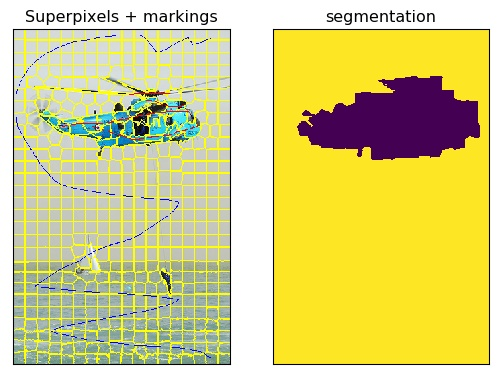
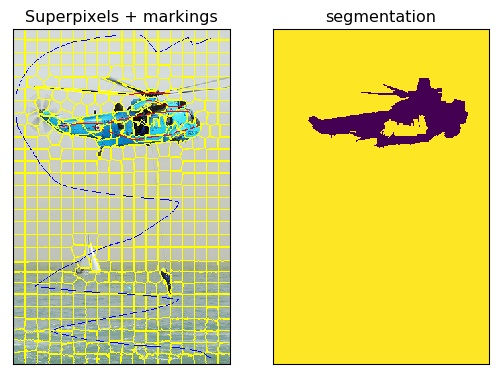
Added edge uncertainties

Changed region(s): [[0.5677, 0.1751, 0.9562, 0.4377]]

diff --git a/algorithms/algorithms.py b/algorithms/algorithms.py
@@ -10,7 +10,9 @@ import matplotlib.pyplot as plt
 from skimage.segmentation import mark_boundaries
 from skimage.segmentation import find_boundaries
 from sklearn.mixture import GaussianMixture
+from sklearn.neighbors import NearestNeighbors
 from scipy.stats import entropy
+from scipy.spatial.distance import euclidean
 
 
 class Algorithms:
@@ -153,8 +155,29 @@ class Algorithms:
             self.imgs_uncertainties_node[img] = [entropy(dist) for dist in likelihoods]
 
     def compute_edge_uncertainties(self):
-        # TODO
-        print('Not yet implemented')
+        # group the foreground and background segments' feature vectors in one list
+        feature_vectors_fg = [self.imgs_segment_feature_vectors[img][fg_segment] for img in self.images for fg_segment
+                              in self.imgs_foreground_segments[img]]
+        feature_vectors_bg = [self.imgs_segment_feature_vectors[img][bg_segment] for img in self.images for bg_segment
+                              in self.imgs_background_segments[img]]
+
+        num_fg_indices = len(feature_vectors_fg)
+
+        feature_vectors = np.concatenate((feature_vectors_fg, feature_vectors_bg))
+        assert len(feature_vectors) >= 10, "At least 10 superpixels need to be marked."
+
+        neighbours = NearestNeighbors(n_neighbors=10, algorithm='auto').fit(feature_vectors)
+
+        for img in self.images:
+            # Retrieve the indices of the nearest neighbours
+            indices = neighbours.kneighbors(self.imgs_segment_feature_vectors[img], return_distance=False)
+
+            # Compute the proportions of foreground and background neighbours
+            proportion_fg = np.sum(indices <= num_fg_indices, axis=1) / 10
+            proportion_bg = np.sum(indices > num_fg_indices, axis=1) / 10
+
+            # Compute the uncertainties as the entropy of the foreground/background proportions
+            self.imgs_uncertainties_edge[img] = [entropy([proportion_fg[id], proportion_bg[id]]) for id in self.imgs_segment_ids[img]]
 
     def perform_graph_cut(self, pairwise_term_scale=-np.infty, scale_parameter=1.0):
         # perform graph-cut for every image
@@ -196,8 +219,8 @@ class Algorithms:
                 for n in self.imgs_segment_neighbors[img][id]:  # For every neighbor of the segment
                     # Create two edges between segment and its neighbor with cost based on histogram matching
                     fv_neighbor = self.imgs_segment_feature_vectors[img][n]  # feature vector of segment's neighbor
-                    energy_forward = pairwise_term_scale * (np.e ** (- scale_parameter * abs(cv2.compareHist(fv, fv_neighbor, cv2.HISTCMP_KL_DIV))))
-                    energy_backward = pairwise_term_scale * (np.e ** (- scale_parameter * abs(cv2.compareHist(fv_neighbor, fv, cv2.HISTCMP_KL_DIV))))
+                    energy_forward = pairwise_term_scale * (np.e ** (- scale_parameter * abs(euclidean(fv, fv_neighbor))))
+                    energy_backward = pairwise_term_scale * (np.e ** (- scale_parameter * abs(euclidean(fv_neighbor, fv))))
                     graph.add_edge(nodes[id], nodes[n], energy_forward, energy_backward)
 
             graph.maxflow()
@@ -279,6 +302,7 @@ if __name__ == '__main__':
     print('BIC: ', alg.gmm_bg_bic)
 
     alg.compute_node_uncertainties()
+    alg.compute_edge_uncertainties()
 
     # alg.perform_clustering(6, 'kmeans')
     alg.perform_graph_cut(pairwise_term_scale=-np.infty, scale_parameter=1.0)
